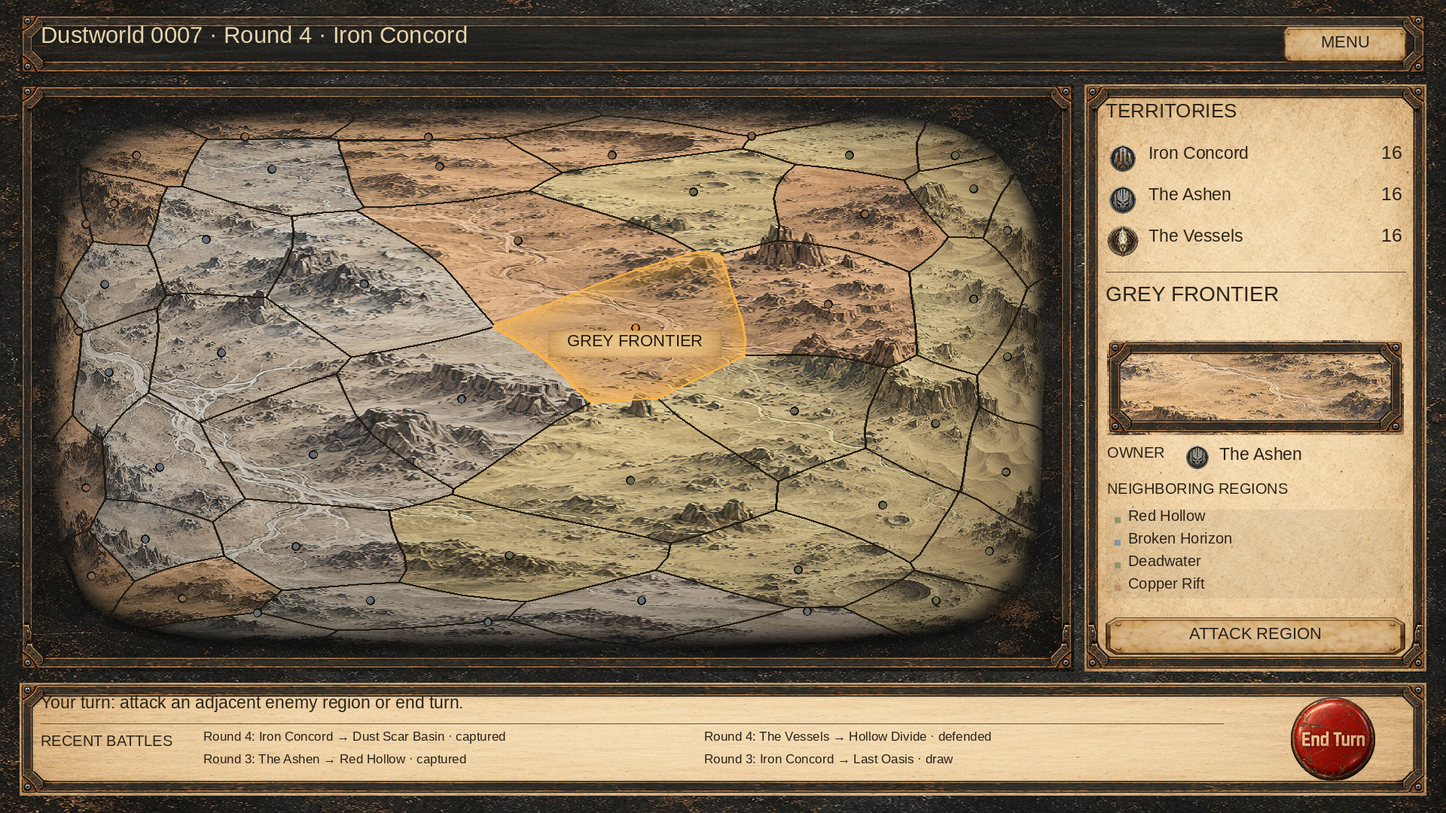
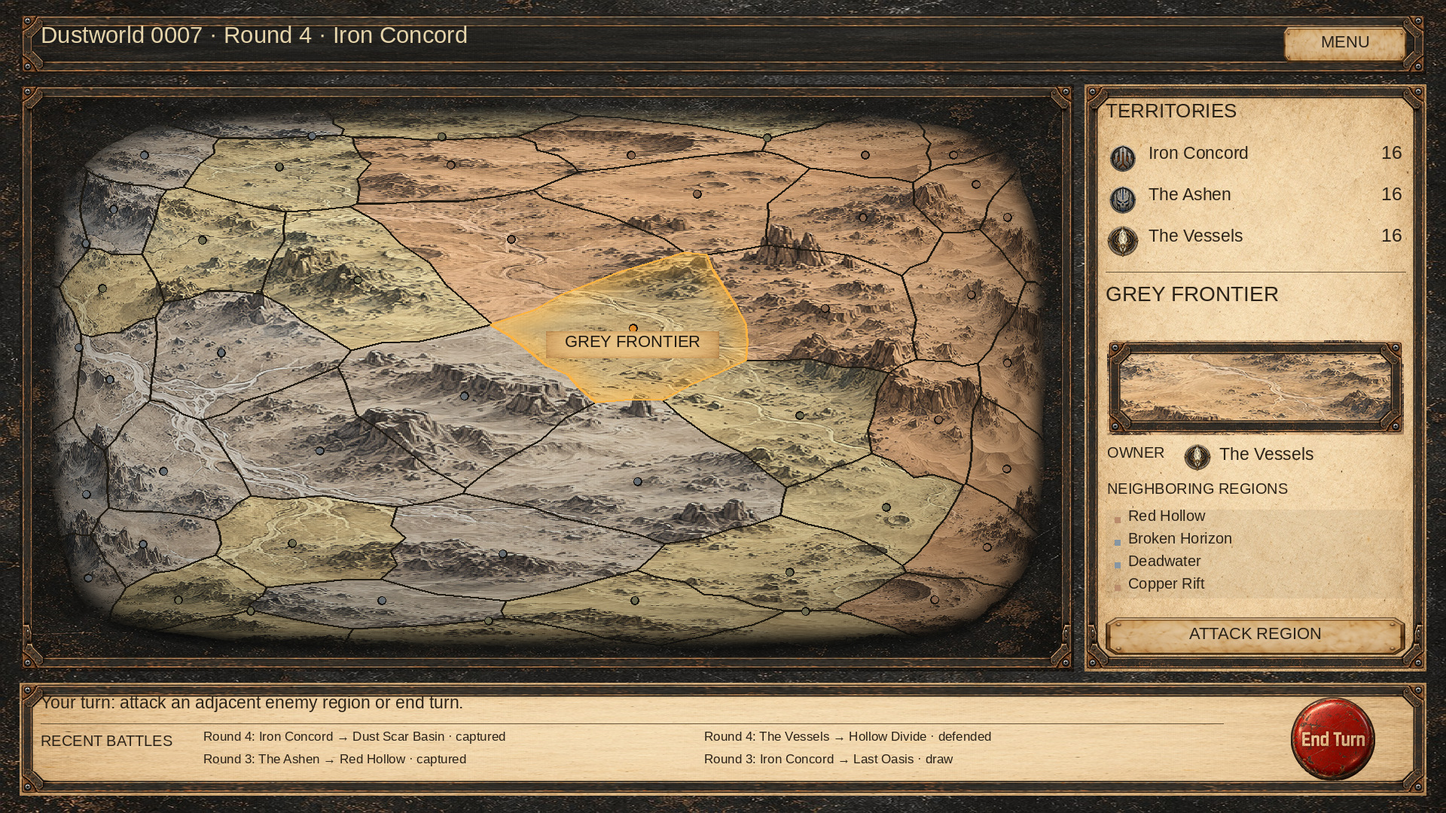
Make procedural campaign borders angular and irregular

diff --git a/Assets/Scripts/Campaign/CampaignMapGenerator.cs b/Assets/Scripts/Campaign/CampaignMapGenerator.cs
@@ -104,12 +104,13 @@ namespace Game.Campaign
             }
             foreach (var owners in edges.Values.Where(e => e.Count == 2))
             { regions[owners[0]].NeighborIds.Add(owners[1]); regions[owners[1]].NeighborIds.Add(owners[0]); }
-            // One sampled curve per shared edge; both cells reuse the exact same vertices.
+            // One angular contour per shared edge; both cells reuse the exact same vertices.
             var contours = new Dictionary<string, List<Vector2>>();
             double phase = rng.Value() * Math.PI * 2;
+            float AngularWave(double value) => (float)(2 / Math.PI * Math.Asin(Math.Sin(value)));
             Vector2 Warp(Vector2 p) => p + new Vector2(
-                (float)(Math.Sin(p.y * 9 + phase) + .22 * Math.Sin(p.y * 23 - phase)),
-                (float)(Math.Sin(p.x * 8 + phase) + .22 * Math.Sin(p.x * 21 - phase))) * (.030f * s.BorderIrregularity);
+                AngularWave(p.y * 11 + phase) + .35f * AngularWave(p.y * 23 - phase),
+                AngularWave(p.x * 10 + phase) + .35f * AngularWave(p.x * 21 - phase)) * (.026f * s.BorderIrregularity);
             foreach (var r in regions)
             {
                 var p = r.PolygonVertices; var shaped = new List<Vector2>();
@@ -120,9 +121,18 @@ namespace Game.Campaign
                     if (!contours.TryGetValue(key, out var edge))
                     {
                         edge = new List<Vector2>();
-                        int segments = Math.Max(1, Math.Min(6, (int)Math.Ceiling((b - a).magnitude / .05f)));
+                        float length = (b - a).magnitude;
+                        var normal = new Vector2(-(b - a).y / length, (b - a).x / length);
+                        float amplitude = Math.Min(.012f, length * .10f) * s.BorderIrregularity;
+                        int segments = Math.Max(1, Math.Min(6, (int)Math.Ceiling(length / .05f)));
                         for (int step = 0; step <= segments; step++)
-                            edge.Add(Warp(step == 0 ? a : step == segments ? b : a + (b - a) * (step / (float)segments)));
+                        {
+                            if (step == 0 || step == segments) { edge.Add(Warp(step == 0 ? a : b)); continue; }
+                            // Unequal segment lengths and independent offsets avoid a regular zigzag.
+                            float t = (step + (float)(rng.Value() * .44 - .22) * s.BorderIrregularity) / segments;
+                            float offset = (float)((rng.Value() * 2 - 1) * Math.Sin(t * Math.PI)) * amplitude;
+                            edge.Add(Warp(a + (b - a) * t) + normal * offset);
+                        }
                         contours[key] = edge;
                     }
                     bool forward = (edge[0] - Warp(a)).sqrMagnitude < 1e-10f;

diff --git a/Docs/PlanetaryCampaign_VisualStyle.md b/Docs/PlanetaryCampaign_VisualStyle.md
@@ -142,11 +142,13 @@ concave notches. Weights are cached per subdivided mesh vertex and recalculated
 only when geometry or the display rectangle size changes. They are transmitted
 on TEXCOORD2; deselection sends zero weights, so the shader removes the glow. Markers use darkened versions of the same ownership palette.
 
-New region borders use one cached sampled curve per shared Voronoi edge. Both
+New region borders use one cached angular contour per shared Voronoi edge. Both
 neighbors reuse exactly identical points in reverse order. Samples are spaced
 according to edge length, up to six segments; very short edges stay unsplit to
-avoid near-collinear triangles. The warp has smooth low-frequency displacement
-with a smaller secondary wave. Existing minimum area/width, shared-vertex,
+avoid near-collinear triangles. A triangular-wave displacement replaces the smooth
+warp. Unequal segment lengths and independent, bounded lateral offsets add local
+corners without a repeating zigzag; offsets fade to zero at shared junctions.
+Existing minimum area/width, shared-vertex,
 intersection, adjacency and connected ownership checks remain active.
 
 Saved polygons are loaded directly and are not regenerated: previous 24- and 36-region
@@ -162,7 +164,7 @@ native shader/TMP antialiasing; it is not a Unity screenshot.
 
 Validation for the palette/contour/density change: targeted reference-DLL UI and
 visual-test compilation passed. A managed check generated 1000 default planets
-(48000 regions) and validated shared curved boundaries, balanced connected
+(48000 regions) and validated shared angular boundaries, balanced connected
 ownership, projected triangulation area, visible interior markers and mesh
 vertex limits. Custom counts 3/7/24/31/36/48 and seed reproducibility passed. A map
 created by the previous generator retained its original 24 regions and exact
